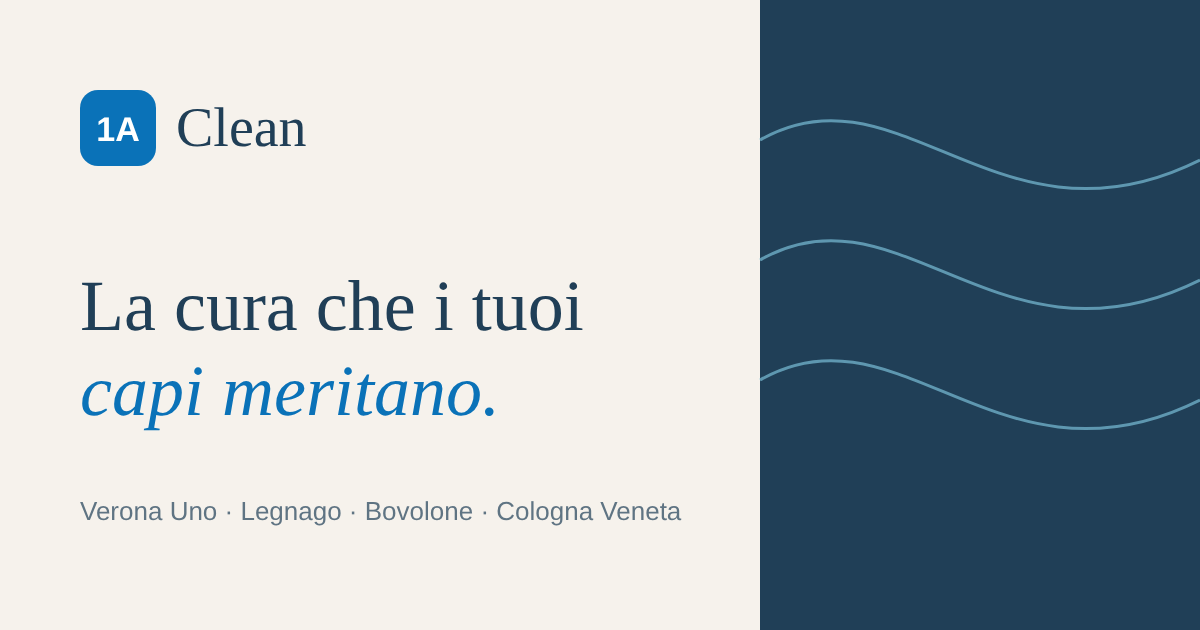
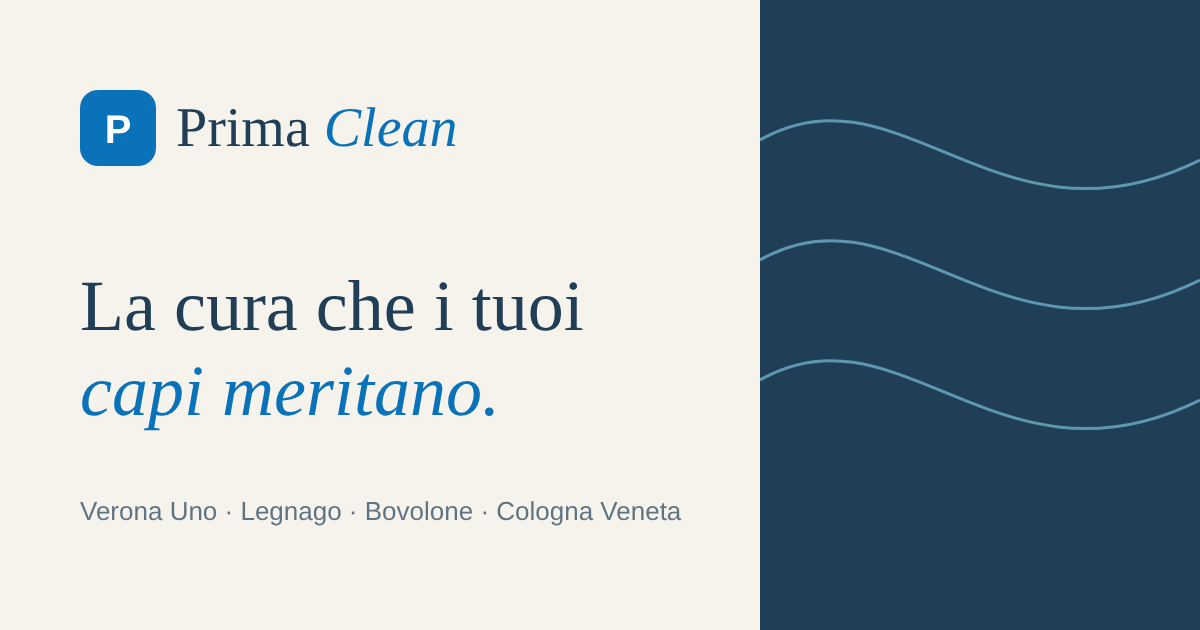
Corregge il nome del brand in Prima Clean
Sito, metadati SEO, dati strutturati, favicon, immagine social e
documento di brand identity (concept e prompt del logo).

Claude-Session: https://claude.ai/code/session_01UqtGep64JXdw85qfJBHvZu

Changed region(s): [[0.0617, 0.1508, 0.4008, 0.2413]]

diff --git a/index.html b/index.html
@@ -3,10 +3,10 @@
   <head>
     <meta charset="UTF-8" />
     <meta name="viewport" content="width=device-width, initial-scale=1.0" />
-    <title>1A Clean — Lavanderia e lavasecco a %STORE_NAMES%</title>
+    <title>Prima Clean — Lavanderia e lavasecco a %STORE_NAMES%</title>
     <meta
       name="description"
-      content="1A Clean: lavanderia e lavasecco professionale in provincia di Verona. Lavaggio a secco e ad acqua, capi delicati e in pelle, tappeti, servizio espresso 24 ore. Negozi a %STORE_PLACES%."
+      content="Prima Clean: lavanderia e lavasecco professionale in provincia di Verona. Lavaggio a secco e ad acqua, capi delicati e in pelle, tappeti, servizio espresso 24 ore. Negozi a %STORE_PLACES%."
     />
     <meta name="theme-color" content="#0A72B8" />
     <meta name="geo.region" content="IT-VR" />
@@ -17,8 +17,8 @@
 
     <meta property="og:type" content="website" />
     <meta property="og:locale" content="it_IT" />
-    <meta property="og:site_name" content="1A Clean" />
-    <meta property="og:title" content="1A Clean — La cura che i tuoi capi meritano" />
+    <meta property="og:site_name" content="Prima Clean" />
+    <meta property="og:title" content="Prima Clean — La cura che i tuoi capi meritano" />
     <meta
       property="og:description"
       content="Lavanderia e lavasecco professionale. %STORE_COUNT_WORD% punti vendita a %STORE_NAMES%."

diff --git a/src/components/Intro.jsx b/src/components/Intro.jsx
@@ -45,7 +45,7 @@ export default function Intro() {
         <div className="lg:col-span-7 lg:pr-10">
           <Eyebrow n="01">La nostra cura</Eyebrow>
           <h2 id="cura-title" className="sr-only">
-            La cura dei tessuti secondo 1A Clean
+            La cura dei tessuti secondo Prima Clean
           </h2>
           <p ref={ref} className="display mt-10 text-[clamp(1.75rem,3.6vw,3.25rem)] leading-[1.14] font-[350] text-notte" aria-label={manifesto}>
             <span aria-hidden="true">
@@ -89,7 +89,7 @@ export default function Intro() {
           <Reveal delay={0.4} className="absolute -bottom-8 left-4 w-[15.5rem] sm:-left-10 lg:-left-16">
             <div className="relative rounded-xl bg-white p-5 shadow-[0_30px_60px_-30px_rgba(20,42,59,.45)] ring-1 ring-notte/5">
               <div className="absolute left-1/2 top-2 h-1 w-8 -translate-x-1/2 rounded-full bg-avorio" />
-              <p className="eyebrow mt-2 text-blu">Etichetta 1A Clean</p>
+              <p className="eyebrow mt-2 text-blu">Etichetta Prima Clean</p>
               <ul className="mt-3 space-y-1.5 text-sm text-notte/80">
                 <li className="flex justify-between"><span>Analisi del capo</span><span className="text-blu">✓</span></li>
                 <li className="flex justify-between"><span>Trattamento dedicato</span><span className="text-blu">✓</span></li>

diff --git a/src/content.js b/src/content.js
@@ -8,8 +8,8 @@
  */
 
 export const brand = {
-  name: '1A Clean',
-  legalName: '1A Clean di Mattiolo Sonia',
+  name: 'Prima Clean',
+  legalName: 'Prima Clean di Mattiolo Sonia',
   email: 'lavasecco1aclean@gmail.com',
   // TODO legale: inserire P.IVA, sede legale, link privacy e cookie policy.
   vat: null,
@@ -58,7 +58,7 @@ export const stores = [
     city: 'San Giovanni Lupatoto (VR)',
     hint: 'All’interno della galleria del centro commerciale',
     phone: '351 710 1674',
-    mapsQuery: '1A Clean, Centro Commerciale Verona Uno, Via Monte Cristallo 1, San Giovanni Lupatoto VR',
+    mapsQuery: 'Prima Clean, Centro Commerciale Verona Uno, Via Monte Cristallo 1, San Giovanni Lupatoto VR',
     hours: null, // es. [['Lun–Sab', '9:00–20:00']] — inserire solo orari verificati
     badge: null,
     // posizione sulla mappa stilizzata (0–100, orientata a nord)
@@ -78,7 +78,7 @@ export const stores = [
     city: 'Legnago (VR)',
     hint: 'All’interno del centro commerciale Galassia',
     phone: '333 404 8866',
-    mapsQuery: '1A Clean, Centro Commerciale Galassia, Via Mantova 5, Legnago VR',
+    mapsQuery: 'Prima Clean, Centro Commerciale Galassia, Via Mantova 5, Legnago VR',
     hours: null,
     badge: null,
     map: { x: 70, y: 82 },

diff --git a/src/components/Header.jsx b/src/components/Header.jsx
@@ -11,10 +11,10 @@ export function Logo({ light = false, className = '' }) {
           light ? 'bg-white text-blu' : 'bg-blu text-white'
         }`}
       >
-        1A
+        P
       </span>
-      <span className={`display text-[1.55rem] leading-none ${light ? 'text-white' : 'text-notte'}`}>
-        Clean
+      <span className={`display whitespace-nowrap text-[1.55rem] leading-none ${light ? 'text-white' : 'text-notte'}`}>
+        Prima <span className={`display-italic ${light ? 'text-azzurro' : 'text-blu'}`}>Clean</span>
       </span>
     </span>
   )
@@ -51,7 +51,7 @@ export default function Header() {
             scrolled ? 'bg-white/80 shadow-[0_10px_40px_-18px_rgba(32,63,87,.35)] ring-1 ring-notte/5 backdrop-blur-xl' : 'bg-transparent'
           }`}
         >
-          <a href="#top" aria-label="1A Clean — torna all’inizio">
+          <a href="#top" aria-label="Prima Clean — torna all’inizio">
             <Logo />
           </a>
 

diff --git a/src/components/Why.jsx b/src/components/Why.jsx
@@ -32,7 +32,7 @@ export default function Why() {
       <div className="mx-auto grid max-w-[1400px] gap-14 px-5 sm:px-8 lg:grid-cols-12 lg:gap-8">
         <div className="lg:col-span-5">
           <div className="lg:sticky lg:top-32">
-            <Eyebrow n="03">Perché scegliere 1A Clean</Eyebrow>
+            <Eyebrow n="03">Perché scegliere Prima Clean</Eyebrow>
             <h2 id="perche-title" className="display mt-8 text-[clamp(2.5rem,5.4vw,4.75rem)] leading-[0.98] font-[350] text-notte">
               <SplitReveal text="Le mani giuste" className="block" />
               <SplitReveal text="fanno la differenza." className="block" delay={0.15} italicWords={[2]} />

diff --git a/src/components/Hero.jsx b/src/components/Hero.jsx
@@ -106,7 +106,7 @@ export default function Hero() {
             transition={{ duration: 1.6, ease: [0.65, 0, 0.35, 1], delay: 0.15 }}
           >
             <motion.div className="absolute inset-[-6%]" style={{ y: imgY, scale: imgScale }}>
-              <Media src={photos.hero} alt="Dettaglio di un tessuto pregiato curato da 1A Clean">
+              <Media src={photos.hero} alt="Dettaglio di un tessuto pregiato curato da Prima Clean">
                 <Silk palette="blue" speed={0.55} label="Seta blu in movimento, studio materico" />
               </Media>
             </motion.div>

diff --git a/docs/brand-identity.md b/docs/brand-identity.md
@@ -1,10 +1,10 @@
-# 1A Clean — Brand Identity
+# Prima Clean — Brand Identity
 
 *Versione 1.0 · novembre 2026 · nata dal restyling della landing page*
 
 > **La cura che i tuoi capi meritano.**
 
-Questo documento raccoglie la nuova identità visiva e verbale di 1A Clean così come è stata definita nella landing page: palette, tipografia, segni grafici, fotografia, movimento e tono di voce. In fondo trovi la direzione creativa per il nuovo logo, con i prompt pronti da usare in ChatGPT.
+Questo documento raccoglie la nuova identità visiva e verbale di Prima Clean così come è stata definita nella landing page: palette, tipografia, segni grafici, fotografia, movimento e tono di voce. In fondo trovi la direzione creativa per il nuovo logo, con i prompt pronti da usare in ChatGPT.
 
 ---
 
@@ -34,7 +34,7 @@ La palette nasce dai colori reali del negozio e li porta in un registro più edi
 
 | Nome | HEX | RGB | Ruolo |
 |---|---|---|---|
-| **Blu 1A** | `#0A72B8` | 10 · 114 · 184 | Colore principale: logo, CTA, parole chiave, link |
+| **Blu Prima** | `#0A72B8` | 10 · 114 · 184 | Colore principale: logo, CTA, parole chiave, link |
 | **Azzurro** | `#79BDD6` | 121 · 189 · 214 | Accento: dettagli, numeri, testo su fondi scuri |
 | **Blu notte** | `#203F57` | 32 · 63 · 87 | Testo principale, fondi scuri, sezioni "premium" |
 | Blu notte profondo | `#142A3B` | 20 · 42 · 59 | Footer, ombre |
@@ -47,7 +47,7 @@ La palette nasce dai colori reali del negozio e li porta in un registro più edi
 
 - **60 %** bianco / carta / avorio — luce e spazio
 - **25 %** blu notte — testo e sezioni d'impatto
-- **10 %** blu 1A — azioni e accenti
+- **10 %** blu Prima — azioni e accenti
 - **5 %** azzurro — dettagli
 
 ### Accessibilità (contrasto WCAG)
@@ -56,10 +56,10 @@ La palette nasce dai colori reali del negozio e li porta in un registro più edi
 |---|---|---|
 | Blu notte su bianco | 10.99 : 1 | Testo di ogni dimensione |
 | Blu notte su avorio | 8.63 : 1 | Testo di ogni dimensione |
-| Bianco su blu 1A | 5.11 : 1 | Pulsanti, testo normale |
-| Blu 1A su carta | 4.86 : 1 | Link e testo normale |
+| Bianco su blu Prima | 5.11 : 1 | Pulsanti, testo normale |
+| Blu Prima su carta | 4.86 : 1 | Link e testo normale |
 | Azzurro su blu notte | 5.27 : 1 | Testo su fondi scuri |
-| Blu 1A su avorio | 4.01 : 1 | Solo titoli grandi (≥ 24 px) |
+| Blu Prima su avorio | 4.01 : 1 | Solo titoli grandi (≥ 24 px) |
 | Azzurro su bianco | 2.09 : 1 | ⚠ Mai per testo — solo decorazioni |
 
 ### Gradiente "seta"
@@ -85,8 +85,8 @@ Due famiglie, entrambe gratuite (Google Fonts / Fontsource), entrambe variabili.
 ### Manrope — testo e interfaccia
 
 - **Uso:** paragrafi, pulsanti, menu, etichette, dati.
-- **Pesi:** 400 testo · 600 pulsanti e grassetti · 800 solo nel monogramma "1A".
-- **Etichette (eyebrow):** maiuscolo, 11 px, spaziatura lettere +22 %, colore blu 1A.
+- **Pesi:** 400 testo · 600 pulsanti e grassetti · 800 solo nel monogramma "P".
+- **Etichette (eyebrow):** maiuscolo, 11 px, spaziatura lettere +22 %, colore blu Prima.
 
 ### Scala di riferimento (web)
 
@@ -218,39 +218,45 @@ Il movimento si ispira ai tessuti: **fluido, morbido, mai a scatti**.
 
 ### Il logo attuale (nella landing)
 
-Un monogramma **"1A"** bianco in un quadrato blu arrotondato, affiancato dalla parola **Clean** in Fraunces. È una soluzione di transizione: pulita e leggibile, ma ancora generica.
+Un monogramma **"P"** bianco in un quadrato blu arrotondato, affiancato da **Prima** *Clean* in Fraunces (con "Clean" in corsivo blu). È una soluzione di transizione: pulita e leggibile, ma ancora generica.
 
 ### Obiettivi del nuovo logo
 
 1. Riconoscibile anche piccolissimo (favicon, profilo social, etichetta adesiva).
 2. Racconta la **cura del tessuto** senza usare icone scontate.
-3. Coerente con la palette e la tipografia di questo documento.
-4. Funziona in positivo, in negativo e in un solo colore (stampa, ricamo, timbro).
+3. Valorizza il nome **Prima**: la prima scelta, il primo posto, "prima di tutto i tuoi capi".
+4. Coerente con la palette e la tipografia di questo documento.
+5. Funziona in positivo, in negativo e in un solo colore (stampa, ricamo, timbro).
 
 ### Concept A — "Il cartellino" *(consigliato)*
 
-Il monogramma **1A** dentro la sagoma di un **cartellino da sartoria** (rettangolo con angoli superiori smussati e un foro in alto), con il bordo interno a cucitura tratteggiata. Accanto: *1A Clean* in un serif elegante.
+La **"P"** di Prima dentro la sagoma di un **cartellino da sartoria** (rettangolo con angoli superiori smussati e un foro in alto), con il bordo interno a cucitura tratteggiata. Accanto: *Prima Clean* in un serif elegante.
 **Perché:** riprende il segno grafico principale del brand ed è subito associato ai capi d'abbigliamento.
 
 ### Concept B — "La piega"
 
-La **"A" disegnata come un tessuto piegato**: un nastro continuo che forma le due aste e si ripiega per creare la barra orizzontale, con una leggera ombra sulla piega. L'"1" è una linea sottile e verticale, come un ago o una gruccia vista di lato.
+La **"P" disegnata come un nastro di tessuto**: l'asta verticale è il nastro che scende, l'occhiello è la stoffa che si ripiega su se stessa, con una leggera differenza di tono sulla piega.
 **Perché:** comunica movimento, morbidezza e cura in un solo gesto.
 
 ### Concept C — "Il filo"
 
-**1A** tracciato da un'unica linea continua, come un filo da cucito, che termina con un piccolo nodo o un ago. Stile monoline, molto raffinato.
+**"Prima"** scritto in corsivo con un'unica linea continua, come un filo da cucito, che parte da un piccolo ago e termina con un nodo; sotto, **CLEAN** in maiuscolo spaziato. Stile monoline, molto raffinato.
 **Perché:** richiama l'artigianalità e il dettaglio; ottimo per ricamo e insegne al neon.
 
 ### Concept D — "Il colletto"
 
-Il monogramma inserito nella forma stilizzata di un **colletto di camicia** visto dall'alto: due punte simmetriche che incorniciano l'"1A", con un piccolo bottone come punto.
+La **"P"** incorniciata dalla forma stilizzata di un **colletto di camicia** visto dall'alto: due punte simmetriche e un piccolo bottone come punto.
 **Perché:** la camicia è il capo simbolo della lavanderia di tutti i giorni.
+
+### Concept E — "1ª" *(il gioco di parole)*
+
+Il monogramma **"1ª"** — l'uno con la "a" in apice, che in italiano si legge proprio *prima* — dentro un cerchio o un cartellino, come un bollino di qualità. Accanto: *Prima Clean*.
+**Perché:** trasforma il nome in un segno di primato ("prima qualità") ed è un'idea memorabile. Attenzione: va sempre accompagnato dalla scritta per evitare che venga letto come un numero.
 
 ### Specifiche per tutti i concept
 
-- **Colori:** Blu 1A `#0A72B8` e Blu notte `#203F57`; versione negativa bianca su blu notte; versione monocromatica.
-- **Wordmark:** "1A Clean" — serif contemporaneo morbido (tipo Fraunces) oppure sans geometrico pulito (tipo Manrope), mai entrambi nello stesso logo.
+- **Colori:** Blu Prima `#0A72B8` e Blu notte `#203F57`; versione negativa bianca su blu notte; versione monocromatica.
+- **Wordmark:** "Prima Clean" — serif contemporaneo morbido (tipo Fraunces) oppure sans geometrico pulito (tipo Manrope), mai entrambi nello stesso logo. Possibile enfasi su "Clean" in corsivo, come sul sito.
 - **Forme:** linee pulite, angoli morbidi, nessun dettaglio sotto 1 px a 32 px di dimensione.
 - **Da evitare:** bolle, gocce d'acqua, lavatrici, grucce realistiche, scintillii "pulito", ombre 3D, sfumature arcobaleno.
 
@@ -263,7 +269,7 @@ Copia un prompt alla volta. Chiedi poi variazioni ("più minimale", "solo monogr
 ### Prompt base (da usare per primo)
 
 ```text
-Disegna uno sketch di logo per "1A Clean", una lavanderia e lavasecco
+Disegna uno sketch di logo per "Prima Clean", una lavanderia e lavasecco
 professionale premium in provincia di Verona. Stile: minimale, editoriale,
 elegante, da atelier sartoriale contemporaneo. Palette: blu #0A72B8,
 blu notte #203F57, su fondo avorio #EAE3D9. Il logo deve funzionare anche
@@ -275,47 +281,59 @@ avorio, in versione negativa su blu notte e come icona quadrata da app.
 ### Concept A — Il cartellino
 
 ```text
-Logo per "1A Clean", lavanderia premium. Il monogramma "1A" sta dentro la
+Logo per "Prima Clean", lavanderia premium. La lettera "P" sta dentro la
 sagoma di un cartellino da sartoria: rettangolo verticale con angoli
 superiori smussati e un piccolo foro rotondo in alto al centro. Lungo il
 bordo interno corre una sottile cucitura tratteggiata. A destra del simbolo,
-la scritta "1A Clean" in un serif contemporaneo morbido e leggero (stile
-Fraunces). Colori: blu #0A72B8 e blu notte #203F57 su avorio #EAE3D9.
-Design piatto, vettoriale, linee pulite, molto spazio bianco.
+la scritta "Prima Clean" in un serif contemporaneo morbido e leggero (stile
+Fraunces), con "Clean" in corsivo. Colori: blu #0A72B8 e blu notte #203F57
+su avorio #EAE3D9. Design piatto, vettoriale, linee pulite, molto spazio bianco.
 ```
 
 ### Concept B — La piega
 
 ```text
-Logo per "1A Clean", lavanderia e lavasecco di alta qualità. La lettera "A"
-è formata da un nastro di tessuto continuo che si piega su se stesso: le due
-aste sono il nastro, la barra orizzontale è la piega, con una leggera
-differenza di tono blu per suggerire la luce sulla stoffa. Il numero "1" è
-una linea verticale sottile ed elegante. Wordmark "Clean" in sans geometrico
-pulito (stile Manrope). Colori: #0A72B8 e #203F57 su bianco. Vettoriale,
-piatto, raffinato, adatto a insegna e favicon.
+Logo per "Prima Clean", lavanderia e lavasecco di alta qualità. La lettera
+"P" è formata da un nastro di tessuto continuo: l'asta verticale è il nastro
+che scende, l'occhiello è la stoffa che si ripiega su se stessa, con una
+leggera differenza di tono blu per suggerire la luce sulla piega. Accanto,
+la scritta "Prima Clean" in sans geometrico pulito (stile Manrope). Colori:
+#0A72B8 e #203F57 su bianco. Vettoriale, piatto, raffinato, adatto a
+insegna e favicon.
 ```
 
 ### Concept C — Il filo
 
 ```text
-Logo monoline per "1A Clean", lavanderia sartoriale. "1A" è disegnato con
-un'unica linea continua sottile come un filo da cucito, che parte da un
-piccolo ago stilizzato e termina con un nodo. Tratto uniforme, curve morbide,
-eleganza artigianale. Sotto, la scritta "CLEAN" in maiuscolo spaziato, sans
-serif leggero. Colore unico blu #0A72B8 su avorio #EAE3D9, più una versione
-bianca su blu notte #203F57. Adatto anche al ricamo e al neon.
+Logo monoline per "Prima Clean", lavanderia sartoriale. La parola "Prima" è
+scritta in corsivo elegante con un'unica linea continua sottile come un filo
+da cucito, che parte da un piccolo ago stilizzato e termina con un nodo.
+Tratto uniforme, curve morbide, eleganza artigianale. Sotto, la scritta
+"CLEAN" in maiuscolo spaziato, sans serif leggero. Colore unico blu #0A72B8
+su avorio #EAE3D9, più una versione bianca su blu notte #203F57. Adatto
+anche al ricamo e al neon.
 ```
 
 ### Concept D — Il colletto
 
 ```text
-Logo per "1A Clean", lavanderia e lavasecco. Il monogramma "1A" è
-incorniciato dalla forma stilizzata e geometrica di un colletto di camicia
+Logo per "Prima Clean", lavanderia e lavasecco. La lettera "P" è
+incorniciata dalla forma stilizzata e geometrica di un colletto di camicia
 visto dall'alto: due punte simmetriche e un piccolo bottone rotondo come
 punto finale. Stile minimale, linee pulite, nessun dettaglio superfluo.
-Wordmark "1A Clean" in serif contemporaneo leggero. Colori: blu #0A72B8,
+Wordmark "Prima Clean" in serif contemporaneo leggero. Colori: blu #0A72B8,
 blu notte #203F57, avorio #EAE3D9. Vettoriale, piatto, premium.
+```
+
+### Concept E — 1ª
+
+```text
+Logo per "Prima Clean", lavanderia e lavasecco premium. Il simbolo è il
+numero ordinale "1ª" (uno con la "a" in apice, che in italiano si legge
+"prima"), disegnato in un serif elegante dentro un cerchio sottile come un
+bollino di qualità o un timbro sartoriale. Accanto, la scritta "Prima Clean"
+in serif contemporaneo leggero. Colori: blu #0A72B8 e blu notte #203F57 su
+avorio #EAE3D9. Vettoriale, piatto, raffinato, molto spazio bianco.
 ```
 
 ### Prompt di rifinitura (dopo aver scelto un concept)
@@ -332,7 +350,7 @@ una busta porta-abiti bianca. Mantieni linee e proporzioni identiche.
 
 ## 11. Note prima di adottare il nuovo logo
 
-- **Franchising:** 1A Clean è indicato come marchio in franchising Eurosecco. Prima di modificare logo o insegne, verifica con il franchisor se esistono vincoli contrattuali sull'identità visiva.
+- **Franchising:** l'insegna è stata indicata da fonti terze (Galleria VeronaUno) come marchio in franchising Eurosecco. Prima di modificare logo o insegne, verifica con il franchisor se esistono vincoli contrattuali sull'identità visiva.
 - **Registrazione:** prima dell'uso pubblico fai una verifica di anteriorità del marchio (UIBM / EUIPO).
 - **Dallo sketch al file definitivo:** le immagini generate da ChatGPT sono ottime come bozza. Per insegne, stampa e ricamo il logo va ridisegnato in vettoriale (SVG / AI / PDF), con le versioni e le aree di rispetto definite.
 - **Aggiornare il sito:** una volta pronto, il nuovo logo sostituisce il componente `Logo` in `src/components/Header.jsx` e i file `public/favicon.svg` e `public/og-image.png`.

diff --git a/README.md b/README.md
@@ -1,4 +1,4 @@
-# 1A Clean — Landing page
+# Prima Clean — Landing page
 
 React 18 · Tailwind CSS 4 · Motion (Framer Motion) · Vite.
 
